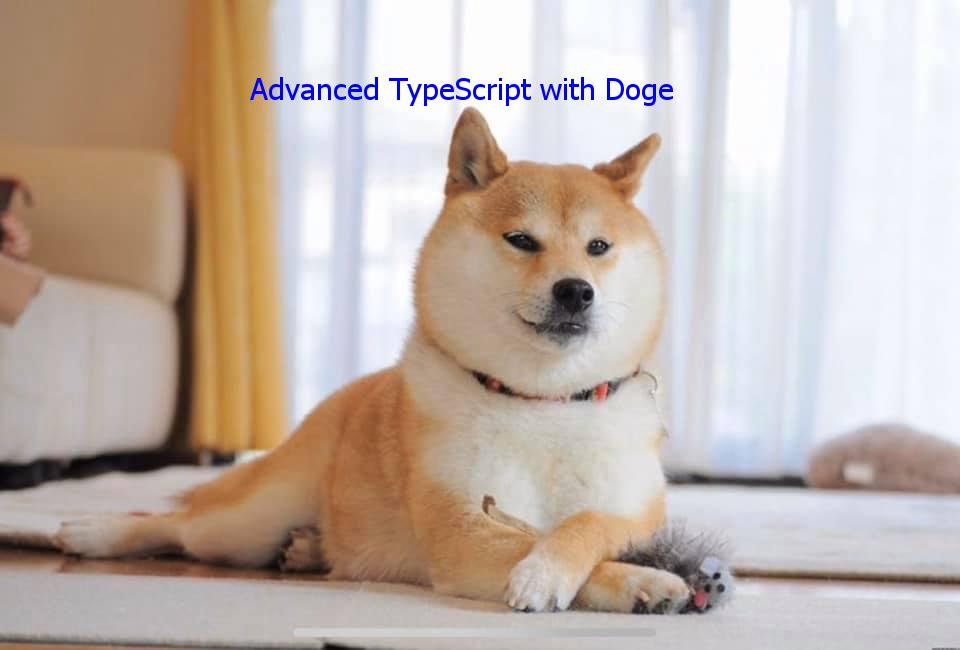
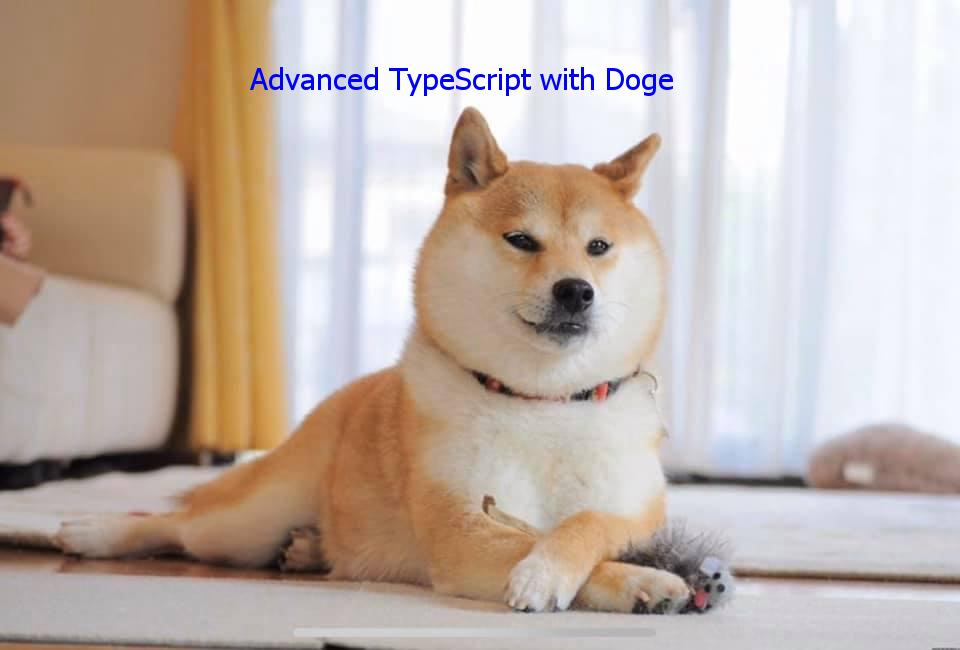
Generating complex types based on existing types

Changed region(s): [[0.25, 0.0923, 0.7188, 0.1846]]

diff --git a/modules/3-generate-complex-types-based-on-existing-types/render.ts b/modules/3-generate-complex-types-based-on-existing-types/render.ts
@@ -1,0 +1,92 @@
+import { ImageLayer, Layer, LayerType, Project, TextLayer } from "./types";
+import { createCanvas, loadImage, Canvas } from "canvas";
+import process from "process";
+import fs from "fs";
+import open from "open";
+const probe = require("probe-image-size");
+
+const BASE_IMAGE_PATH = `${process.env.ROOT}/modules/common/images`;
+
+const isTextLayer = (layer: Layer): layer is TextLayer => {
+	return layer.type === LayerType.Text;
+};
+
+const isImageLayer = (layer: Layer): layer is ImageLayer => {
+	return layer.type === LayerType.Image;
+};
+
+const renderImage = async (canvas: Canvas, layer: ImageLayer) => {
+	const ctx = canvas.getContext("2d");
+	const imagePath = `${BASE_IMAGE_PATH}/${layer.src}`;
+	console.log(`Loading image with path ${imagePath}`);
+
+	const fileBuffer = fs.readFileSync(imagePath);
+
+	const image = await loadImage(fileBuffer);
+
+	const imageSize = probe.sync(fileBuffer);
+
+	const maxScaleSize = {
+		width: layer.maxBounds.width || imageSize.width,
+		height: layer.maxBounds.height || imageSize.height
+	};
+
+	const scale = Math.min(
+		maxScaleSize.height / imageSize.height,
+		maxScaleSize.width / imageSize.width
+	);
+
+	ctx.drawImage(
+		image,
+		layer.position.x,
+		layer.position.y,
+		scale * imageSize.width,
+		scale * imageSize.height
+	);
+};
+
+const renderText = async (canvas: Canvas, layer: TextLayer) => {
+	const ctx = canvas.getContext("2d");
+	ctx.font = `${layer.fontSize}px Helvetica Arial`;
+	ctx.fillStyle = layer.color;
+	ctx.fillText(layer.text, layer.position.x, layer.position.y, layer.maxWidth);
+};
+
+const exportPng = async (canvas: Canvas) => {
+	return new Promise((resolve) => {
+		const fileName = `${__dirname}/../../out.png`;
+
+		const out = fs.createWriteStream(fileName);
+		const stream = canvas.createJPEGStream();
+		stream.pipe(out);
+		out.on("finish", () => open(fileName).then(resolve));
+	});
+};
+
+const renderAsync = async (project: Project) => {
+	const canvas = createCanvas(project.size.width, project.size.height);
+
+	for (const layer of project.layers) {
+		try {
+			if (isTextLayer(layer)) {
+				await renderText(canvas, layer);
+			}
+
+			if (isImageLayer(layer)) {
+				await renderImage(canvas, layer);
+			}
+		} catch (error) {
+			console.error(`Could not render with id ${layer.id}`);
+			console.error(error.stack);
+			process.exit(1);
+		}
+	}
+
+	await exportPng(canvas);
+};
+
+export const render = (project: Project) => {
+	renderAsync(project)
+		.then(() => console.log("finished rendering"))
+		.catch((err) => console.error(err));
+};

diff --git a/modules/3-generate-complex-types-based-on-existing-types/1-attempt-solve-partial-updates-without-transformation/index.ts b/modules/3-generate-complex-types-based-on-existing-types/1-attempt-solve-partial-updates-without-transformation/index.ts
@@ -1,0 +1,51 @@
+import { ImageLayer, LayerType, Project, Size, TextLayer } from "../types";
+import { render } from "../render";
+
+const projectSize: Size = {
+	width: 960,
+	height: 650
+};
+
+const textLayer: TextLayer = {
+	type: LayerType.Text,
+	maxWidth: 1000,
+	position: { x: 250, y: 90 },
+	color: "blue",
+	id: "10",
+	rotation: 0,
+	text: "Advanced TypeScript with Doge",
+	fontSize: "30px"
+};
+
+const imageLayer: ImageLayer = {
+	type: LayerType.Image,
+	position: { x: 0, y: 0 },
+	id: "20",
+	rotation: 0,
+	src: "doge.jpg",
+	maxBounds: { width: projectSize.width }
+};
+
+function setTextLayerProps(
+	project: Project,
+	id: string,
+	props: { [key: string]: any }
+) {
+	const layer = project.layers.find((l) => l.id === id);
+	if (layer) {
+		Object.entries(props).forEach(([k, v]) => {
+			(layer as any)[k] = v;
+		});
+	}
+}
+
+const project: Project = {
+	layers: [imageLayer, textLayer],
+	size: projectSize
+};
+
+setTextLayerProps(project, "10", {
+	shouldnotwork: false
+});
+
+render(project);

diff --git a/modules/3-generate-complex-types-based-on-existing-types/types.ts b/modules/3-generate-complex-types-based-on-existing-types/types.ts
@@ -1,0 +1,62 @@
+export interface Size {
+	width: number;
+	height: number;
+}
+
+export interface Constraint {
+	width?: number;
+	height?: number;
+}
+
+export enum LayerType {
+	Text,
+	Image
+}
+
+export interface Position {
+	x: number;
+	y: number;
+}
+
+export interface Layer {
+	id: string;
+	type: LayerType;
+	rotation: number;
+	position: Position;
+	lastUpdated?: Date;
+}
+
+export interface TextMeta {
+	fontFoundry: string;
+	licenseExpiration: Date;
+}
+
+export interface TextLayer extends Layer {
+	type: LayerType.Text;
+
+	text: string;
+	color: string;
+	fontSize: string;
+	maxWidth: number;
+	meta?: TextMeta;
+}
+
+export interface ImageMeta {
+	origin: string;
+	format: "jpg" | "png";
+}
+
+export interface ImageLayer extends Layer {
+	type: LayerType.Image;
+	src: string;
+	maxBounds: Constraint;
+
+	meta?: ImageMeta;
+}
+
+export interface Project {
+	layers: Layer[];
+	size: Size;
+	lastUpdated?: number;
+	lastAction?: string;
+}
